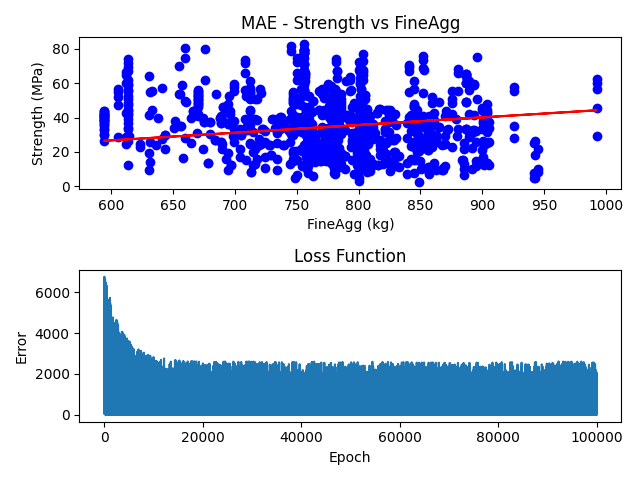
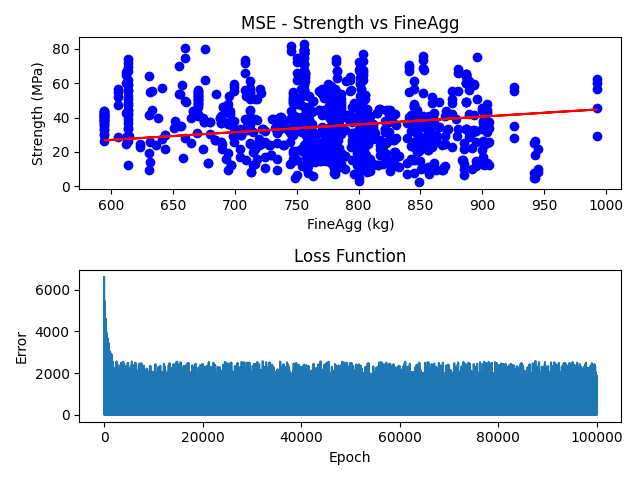
Timing

diff --git a/univariable.py b/univariable.py
@@ -11,8 +11,8 @@ from sklearn.metrics import (
 
 # PROCESSING_TYPE = "SCALED"
 PROCESSING_TYPE = "NORMAL"
-# ALGO = "MSE"
-ALGO = "MAE"
+ALGO = "MSE"
+# ALGO = "MAE"
 
 DONT_PROCESS = [
     # "Cement",
@@ -95,6 +95,7 @@ def main():
         trainSet[trainSet.columns] = scaler.fit_transform(trainSet[trainSet.columns])
 
     # Loop over each column
+    trainTime = 0
     for (columnName, columnData) in trainSet.iteritems():
         if columnName not in ["Strength"] + DONT_PROCESS:
             print(columnName)
@@ -102,6 +103,7 @@ def main():
             trainSet_x = columnData
             config = settings[f"{PROCESSING_TYPE}_{ALGO}"][columnName]
             # Train
+            start = time.time()
             obj = LinearRegression(
                 trainSet_x,
                 trainSet_y,
@@ -110,6 +112,8 @@ def main():
                 epochs=config[0],
                 learnRate=config[1],
             )
+            end = time.time()
+            trainTime += end - start
             obj.predict(trainSet_x, trainSet_y, "Train")
 
             # Blindly apply same transform to testing data
@@ -120,6 +124,8 @@ def main():
             testSet_x = testSet[columnName]
             testSet_y = testSet["Strength"]
             obj.predict(testSet_x, testSet_y, "Test")
+
+    print(f"Total Training time = {trainTime}")
 
 
 class LinearRegression:
